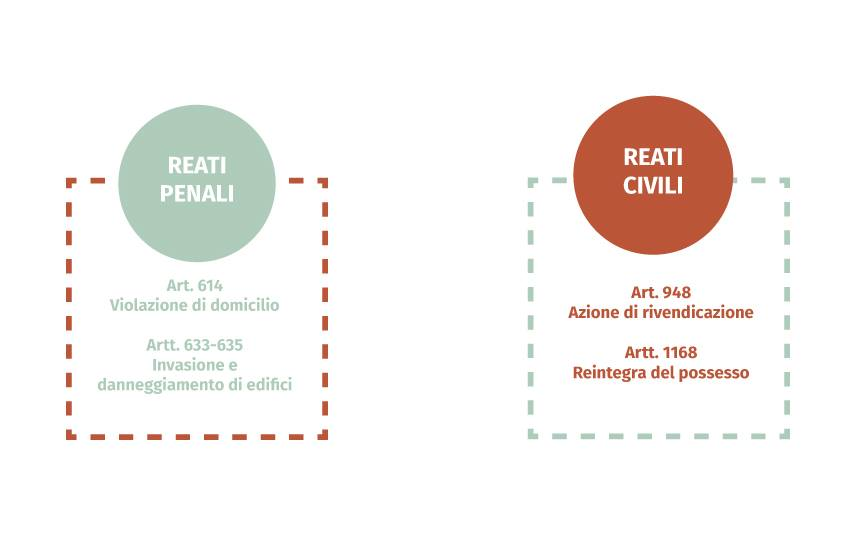
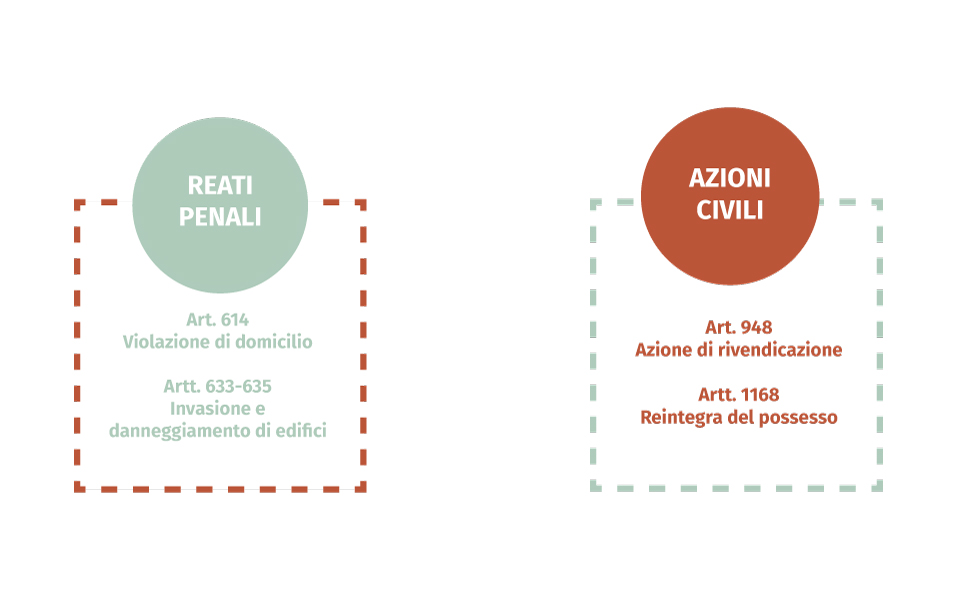
Modifiche avvocato
manca da modificare il video con la faccia del bimbo

diff --git a/alloggi-popolari/scandalo_2004.html b/alloggi-popolari/scandalo_2004.html
@@ -102,16 +102,22 @@
                 <article>
                 	<div class="innerArticle text-justify">
 	                    <h1>Lo scandalo del 2004</h1>
-                        <p><a href="http://www.antonioamorosi.it/biografia-2/" target="_blank">Antonio Amorosi</a>, oggi giornalista e scrittore, nel luglio 2004 ha ricevuto l'incarico di <strong>Assessore alle politiche abitative</strong> per l'Amministrazione Cofferati.</p>
-                        <p>Nel febbraio 2006 decise di dimettersi dall'incarico perché venuto a conoscenza di un <strong>sistema illecito</strong>, in vigore ormai da 20 anni, che permetteva ai consiglieri comunali e ai loro amici di scavalcare le normali richieste di case popolari, presentate dai cittadini realmente in difficoltà. Il tutto era permesso in quanto nascosto dalla scusa dell'<strong>emergenza abitativa</strong>.</p>
+                        <p><a href="http://www.antonioamorosi.it/biografia-2/" target="_blank">Antonio Amorosi</a>, oggi giornalista e scrittore, nel luglio 2004 ha ricevuto l’incarico di <strong>assessore alle politiche abitative</strong> del Comune di Bologna per l’amministrazione Cofferati.</p>
+                        <p>Nel febbraio 2006, Amorosi rassegnò le sue dimissioni dall’incarico, subito dopo aver denunciato un &laquo;<i>sistema illecito nelle assegnazioni delle case popolari del Comune di Bologna, perpetrato nei 20 anni precedenti</i>&raquo;.</p>
+                        <p>Nel corso di un intervento in commissione di indagine sulla Commissione Consulta Casa, riportato parola per parola in una <a href="http://www.antonioamorosi.it/wp-content/uploads/2008/10/Relazione_tecnica-dell_ass._Amorosi_sul-Sistema-politico_di_assegnazione_delle-case-del-Comune-di-Bologna_del_16_2_2005.pdf" target="_blank">relazione del 16 febbraio 2005</a>, Amorosi descrisse nel dettaglio l’intera vicenda a partire dal ricevimento dell’incarico di assessore fino alla scoperta del sistema, che prevedeva, secondo la sua denuncia, una gestione indipendente delle assegnazioni per una cospicua parte di alloggi ERP da parte di politici che, invece, non avrebbero dovuto avere alcun ruolo nella gestione di tali situazioni emergenziali, essendo questo compito affidato a organi di natura strettamente tecnico-amministrativa.</p>
                         <br />
                         <iframe src="https://www.youtube.com/embed/7kxE66zzGI4" frameborder="0" width="100%" height="60%" allowfullscreen="allowfullscreen"></iframe>
                         <br />
                         <br />
-                        <p>Scoperto questo sistema, Amorosi decise di formalizzare alla Procura della Repubblica di Bologna tutti i processi irregolari che lo costituivano, le cui prove sono riportate ancora oggi sul sito dell'organizzazione no-profit <a href="http://www.casadellalegalita.info/emila-e-centro/emilia-romagna/10788-il-dossier-sullinchiesta-sullillegalit-nellassegnazione-delle-case-popolari-a-bologna.html" target="_blank">Casa della Legalità e della Cultura</a>. Nonostante dopo qualche anno la Procura avesse confermato le irregolarità e le illegalità segnalate, il caso venne archiviato.</p>
-                        <p>Tra i verbali a conferma di questo sistema, si trova quello inerente al caso di una pittrice di origini lettoni di nome Lolita, che non aveva nemmeno mai provato ad accedere alle graduatorie ERP ed era priva quindi di tutta la documentazione necessaria per la verifica dei requisiti per entrarvi. La motivazione addotta lascia a bocca aperta: nel verbale della Commissione Casa si legge: «<em>Fornisce un contributo importante ai rapporti tra Italia e Lettonia»</em>.</p>
-                        <p>Ciò che forse più di ogni altra cosa lascia nello sconcerto è la consapevolezza dei cittadini (riportata da Amorosi nella relazione inviata alla Procura) del fatto che, senza l'intervento personale e puntuale di un politico, fosse pressoché impossibile riuscire ad ottenere un alloggio popolare in tempi ragionevoli e definiti.</p>
-                        <p>Sono passati dieci anni e non sappiamo se l'illecito sia stato ripristinato, quel che resta di sicuro è il paradosso dell'<strong>istituzionalizzazione dell'emergenza</strong>. Forse non sono troppi undici anni, perché l'emergenza non sia ancora stata arginata?</p>
+                        <p>Amorosi <a href="http://www.antonioamorosi.it/wp-content/uploads/2008/10/Denuncia1.pdf" target="_blank">formalizzò tali accuse</a> alla Procura della Repubblica il 6 febbraio 2006, tuttavia il caso venne archiviato </i>&raquo;per infondatezza della notizia di reato</i>&raquo;, come si legge nel <a href="http://www.antonioamorosi.it/wp-content/uploads/2008/10/richiesta_archiviazione_set_20071.pdf" target="_blank">verbale di archiviazione</a>, in quanto, secondo l’Autorità giudiziaria, la condotta denunciata non configurava il reato di abuso d’ufficio previsto dall’art. 323 del codice penale.
+                            Tuttavia, lo stesso Giudice per le Indagini Preliminari che ha disposto l’archiviazione del caso non esitava a segnalare l’effettiva sussistenza di <strong>illecito amministrativo</strong>, sebbene non riconducibile ad una fattispecie di rilevanza penale.
+                        </p>
+                        <p>A conferma della illiceità della condotta da parte delle p.a., veniva evidenziato come le decisioni per l’assegnazione degli alloggi ERP &laquo;<i>venivano solo succintamente motivate</i>&raquo;, e che &laquo;<i>talune pratiche venivano portate all’esame della commissione da consiglieri comunali, che ne avevano evidentemente ricevuto dirette segnalazioni in precedenza</i>&raquo;. Segnalazioni che, dopo il mancato rinnovo della commissione da parte di Amorosi, rimasero senza esito. Un’ulteriore procedura piuttosto ambigua era individuata nella <i>&laquo;prassi seguita dalla commissione di provvedere autonomamente alla istruttoria di pratiche finalizzate alla assegnazione di un certo numero di alloggi prescindendo da preventive segnalazioni provenienti dai competenti servizi comunali</i>&raquo;, pur avvalendosi sempre dell’ausilio di funzionari dell’ufficio casa del Comune di Bologna che partecipavano alle varie sedute.</p>
+                        <p>Inoltre, nell’ordinanza di archiviazione si osserva che, effettivamente, &laquo;<i>in taluni casi non è chiaro quali siano stati i criteri adottati, e secondo quali modalità siano state istruite le pratiche</i>&raquo;.</p>
+                        <p>Tuttavia, viene infine dichiarato che per la concreta configurabilità del reato ex art. 323 c.p., &laquo;<i>l’accertamento della violazione di leggi o di regolamento nell’assunzione del provvedimento amministrativo, deve necessariamente concorrere con la “ingiustizia” del vantaggio patrimoniale alla cui attribuzione il provvedimento amministrativo è finalizzato</i>&raquo;.</p>
+                        <p>A prescindere da ogni considerazione in ordine alla configurabilità del reato di abuso di ufficio, è dunque palese l’illegittimità di una condotta che confligge con una buona amministrazione del patrimonio pubblico destinato ai cittadini realmente bisognosi.</p>
+                        <p>Non mancano, infatti, i riscontri a situazioni a dir poco paradossali. Si è registrato fra gli altri il caso di chi, pur non avendo partecipato ad alcun bando ERP e non essendo dunque in possesso di alcuna documentazione per la verifica dei requisiti, ha visto il parere della commissione “favorevole” alla sua assegnazione grazie al fatto che la sua attività artistica <i>&laquo;fornisce un contributo importante ai rapporti tra Italia e Lettonia</i>&raquo;.</p>
+                        <p><a href="http://www.casadellalegalita.info/index.php/altre-regioni/emilia-romagna/case-popolari-a-bologna/11662-il-dossier-sullinchiesta-sullillegalit-nellassegnazione-delle-case-popolari-a-bologna" target="_blank"><strong>IL DOSSIER</strong></a></p>
                     </div>
                 </article>
             </div>

diff --git a/alloggi-popolari/gestione.html b/alloggi-popolari/gestione.html
@@ -118,7 +118,7 @@
                         <p><img class="interna" src="../img/alloggi/gestione1.jpg" alt="via gandusio" width="100%" /></p>
                         <p>La stessa <strong>difficoltà comunicativa</strong> l'abbiamo trovata noi nel tentativo di avviare una collaborazione approfondita che ci permettesse di rappresentare dall'interno la realtà aziendale. Un tentativo estenuante durato più di sei mesi, fatto di scambi di mail, telefonate poco chiare e incontri in presenza dell'avvocato di Acer. Abbiamo riscontrato una serie di mancanze per quel che concerne gli obblighi inerenti la normativa sulla<strong> trasparenza e l'anticorruzione</strong>, alcune già riportate nel gennaio 2014 e sintetizzate in una <a href="../pdf/griglia-valutativa-anac.pdf" target="_blank">griglia di valutazione</a> approfondita, compilata a seguito di una delibera dell'ente nazionale per l'anticorruzione (ANAC). Perciò abbiamo voluto procedere con l'inoltro di due <strong>moduli di accesso civico</strong>, il primo dei quali da noi stesse ritirato su esplicita richiesta da parte di alcuni funzionari a causa di una compilazione non corretta, in previsione di una collaborazione più stretta da loro millantata. Non essendo questa avvenuta per ciò che concerne gli aspetti per noi più interessanti ed essendo riuscite ad ottenere solo un'intervista preparata e programmata con il Presidente Claudio Felicani, in data 9 agosto abbiamo provveduto ad un re-inoltro del modulo, di cui riportiamo la <a href="../pdf/risposta-accesso-civico.pdf" target="_blank">risposta tempestiva, </a>firmata dal Direttore Generale.</p>
                         <p>Secondo quanto previsto dalla legge, e anche riportato nella sezione “Amministrazione trasparente” sul sito di Acer Bologna</p>
-                        <p><em>“Acer Bologna, entro trenta giorni, procede alla pubblicazione nel sito del documento, dell’informazione o del dato richiesto e lo trasmette contestualmente al richiedente, ovvero comunica al medesimo l’avvenuta pubblicazione, indicando il collegamento ipertestuale a quanto richiesto. Se il documento, l’informazione o il dato richiesti risultano già pubblicati nel rispetto della normativa vigente, l’amministrazione indica al richiedente il relativo collegamento ipertestuale”.</em></p>
+                        <p><em>&laquo;Acer Bologna, entro trenta giorni, procede alla pubblicazione nel sito del documento, dell’informazione o del dato richiesto e lo trasmette contestualmente al richiedente, ovvero comunica al medesimo l’avvenuta pubblicazione, indicando il collegamento ipertestuale a quanto richiesto. Se il documento, l’informazione o il dato richiesti risultano già pubblicati nel rispetto della normativa vigente, l’amministrazione indica al richiedente il relativo collegamento ipertestuale&raquo;.</em></p>
                         <p>Peccato che i 30 giorni siano scaduti il 9 settembre e nella risposta ufficiale Acer non fa altro che fornire uno scadenzario in cui prevede di pubblicare i diversi dati mancanti.</p>
                         <p>Speriamo che questo atteggiamento non sia lo specchio di un tentativo di rimandare il più possibile, consci del fatto che avremmo avuto delle scadenze. Preferiamo piuttosto pensare che, invece di occuparsi di noi, siano stati oberati di lavoro e abbiano perseguito quell’interesse pubblico a cui anche noi miriamo.</p>
                     </div>

diff --git a/sfratti/ufficiale-giudiziario.html b/sfratti/ufficiale-giudiziario.html
@@ -106,7 +106,7 @@
                             Nel caso specifico l’ufficiale giudiziario ha non solo il compito di notificare all’esecutato gli atti che anticipano lo sfratto, ma anche di eseguirlo.</p>
                         <p><img class="interna" src="../img/sfratti/ufficiale1.jpg" alt="picchetto" width="100%" /></p>
                         <p>Intervista a <strong>Ivana Capobianco</strong>, ufficiale giudiziario di Bologna.</p>
-                        <p><em>“C’è un aspetto fondamentale nel lavoro degli ufficiali giudiziari che nessuno conosce. Noi svolgiamo un’attività non solo esecutiva ma anche di <strong>mediazione</strong>; contattiamo i servizi sociali segnalando loro l’esistenza di nuclei familiari all’interno dei quali si riscontrano situazioni di grave disagio (presenza di minori, anziani o persone con gravi problemi di salute anche mentale), ovvero nuclei in grave difficoltà economica. Spesso queste famiglie rimangono misconosciute ai servizi sociali per le più svariate ragioni: vergogna, ignoranza, depressione o incapacità di accettare una realtà troppo dolorosa. Cerchiamo di mediare sul territorio svolgendo un lavoro molto importante, soprattutto per quegli sfratti la cui esecuzione viene impedita dalla presenza dei Social Log o altre associazioni o comitati che intervengono al fine bloccare lo sfratto”.</em></p>
+                        <p><em>&laquo;C’è un aspetto fondamentale nel lavoro degli ufficiali giudiziari che nessuno conosce. Noi svolgiamo un’attività non solo esecutiva ma anche di <strong>mediazione</strong>; contattiamo i servizi sociali segnalando loro l’esistenza di nuclei familiari all’interno dei quali si riscontrano situazioni di grave disagio (presenza di minori, anziani o persone con gravi problemi di salute anche mentale), ovvero nuclei in grave difficoltà economica. Spesso queste famiglie rimangono misconosciute ai servizi sociali per le più svariate ragioni: vergogna, ignoranza, depressione o incapacità di accettare una realtà troppo dolorosa. Cerchiamo di mediare sul territorio svolgendo un lavoro molto importante, soprattutto per quegli sfratti la cui esecuzione viene impedita dalla presenza dei Social Log o altre associazioni o comitati che intervengono al fine bloccare lo sfratto&raquo;<i>.</em></p>
                         <br />
                         <h4><strong><em>Come funziona l’attività dell’ufficiale giudiziario?</em></strong></h4>
                         <p>Per prima cosa vi è la notifica dell’<strong>atto di intimazione</strong> e della contestuale <strong>citazione per la convalida di sfratto</strong>, fatta pervenire all’inquilino tramite l’ufficiale giudiziario. Il giorno dell’udienza il giudice può concedere il così detto <strong>termine di grazia</strong>, al fine di garantire al conduttore un più ampio lasso di tempo per sanare la posizione debitoria con il locatore ed evitare così il rilascio dell’immobile abitato.

diff --git a/alloggi-popolari/manutenzione.html b/alloggi-popolari/manutenzione.html
@@ -121,7 +121,7 @@
                           </ul>
                         </p>
                         <p>A predisporre questi interventi sono le <strong>Aziende Casa</strong>, infatti Acer Bologna, ente gestore degli alloggi di edilizia residenziale pubblica, ha anche il compito di erogare i così detti <strong>servizi tecnici e di manutenzione</strong>. Come emerge dalla carta dei servizi Acer: </p>
-	                    <p><em>"Acer fornisce servizi di progettazione, realizzazione e collaudo di interventi per la nuova costruzione, ristrutturazione, recupero ed efficientamento di unità immobiliari in proprietà o conto terzi. Acer garantisce inoltre tutti gli interventi di manutenzione ordinaria e straordinaria per il mantenimento e adeguamento del patrimonio immobiliare gestito". </em></p>
+	                    <p><em>&laquo;Acer fornisce servizi di progettazione, realizzazione e collaudo di interventi per la nuova costruzione, ristrutturazione, recupero ed efficientamento di unità immobiliari in proprietà o conto terzi. Acer garantisce inoltre tutti gli interventi di manutenzione ordinaria e straordinaria per il mantenimento e adeguamento del patrimonio immobiliare gestito.&raquo; </em></p>
                         <p>Le risorse erogate alla città di Bologna per gli interventi di <strong>non rilevante</strong> <strong>entità</strong>,<strong> </strong>e dunque non superiori ai 15.000,00 euro,<strong> per le annualità 2014-2016</strong><strong> </strong>ammontano complessivamente a <strong>462.173,00 </strong>euro, mentre per gli interventi di ripristino e di manutenzione straordinaria sono stati erogati complessivamente<strong> 7.677.003,15 </strong>euro per le annualità <strong>2016-2018</strong>.</p>
                         <p>Nonostante le cifre stanziate, dall'analisi che abbiamo avuto modo di effettuare risultano molteplici gli edifici destinati agli alloggi ERP ancora in fase di ripristino o in manutenzione.
                             Lo scenario, infatti, è tutto tranne che positivo: palazzoni quasi terminati e pronti ad essere consegnati ai numerosi richiedenti in graduatoria, ma ormai abbandonati al degrado e all'inciviltà; cantieri il cui termine è previsto per il 2018 e invece fermi da anni, che lasciano intendere che non verranno completati in tempo, e facciate sgangherate di condomini che cadono a pezzi.</p>

diff --git a/alloggi-popolari/come-si-ottengono.html b/alloggi-popolari/come-si-ottengono.html
@@ -107,7 +107,7 @@
 	                    <h1 class="text-left">Come dovrebbe funzionare</h1>
                         <br />
                         <br />
-                        <p class="text-center"><em>"Ogni amministrazione comunale adotta il proprio regolamento per l'assegnazione e la gestione degli alloggi E.R.P."</em></p>
+                        <p class="text-center"><em>&laquo;Ogni amministrazione comunale adotta il proprio regolamento per l'assegnazione e la gestione degli alloggi E.R.P.&raquo;</em></p>
                         <br />
                         <br />
                         <p>Le procedure per ottenere un alloggio popolare sono descritte dettagliatamente all'interno del <a href="http://www.acerbologna.it/site/home/regolamenti/regolamento-per-lassegnazione-e-la-gestione-degli-alloggi-di-erp/documento6140.html">Regolamento per l’assegnazione e la gestione degli alloggi di edilizia residenziale pubblica</a> presente sul sito di Acer Bologna.</p>
@@ -130,7 +130,7 @@
                         <br />
                         <h3 class="text-left">REQUISITI</h3>
                         <br />
-                        <p style="text-align: center;">“<em>I requisiti di accesso sono stabiliti con disciplina regionale e devono essere in possesso del richiedente e del suo nucleo al momento di presentazione della domanda e alla data di verifica degli stessi</em>”.</p>
+                        <p style="text-align: center;"><em>&laquo;I requisiti di accesso sono stabiliti con disciplina regionale e devono essere in possesso del richiedente e del suo nucleo al momento di presentazione della domanda e alla data di verifica degli stessi.&laquo;</em></p>
                         <p>I richiedenti devono trovarsi in<strong> specifiche condizioni di particolare bisogno sociale</strong>, che riguardano principalmente aspetti come:</p>
                         <ul style="list-style: disc;">
                             <li>Et&agrave;</li>

diff --git a/sfratti/sfratto.html b/sfratti/sfratto.html
@@ -112,7 +112,7 @@
                             Dopo aver preso in affitto un appartamento, nel 2013 ha fatto domanda per ottenere l’assegnazione di un <strong>alloggio popolare</strong>, ma a causa di un problema burocratico non è riuscito ad accedervi, sebbene fosse in possesso di tutti i requisiti.<br />
                             Nel frattempo, lui e Assìa hanno entrambi perso il lavoro e, non essendo più in grado di pagare l’affitto e contemporaneamente sostentare la propria famiglia, hanno ricevuto la notifica di sfratto.</p>
                         <br />
-                        <iframe src="https://www.youtube.com/embed/oQ_wn8Dr8Uc" frameborder="0" width="100%" height="60%" allowfullscreen="allowfullscreen"></iframe>
+                        <iframe src="https://www.youtube.com/embed/oCZFUhgjGZo" frameborder="0" width="100%" height="60%" allowfullscreen="allowfullscreen"></iframe>
                         <br />
                         <br />
                         <p><strong>Morosità incolpevole</strong>: così viene definita questa condizione di debito con la proprietà, tanto consequenziale quanto inevitabile che, se prima della crisi rappresentava il caso, l’eccezione, negli ultimi anni è arrivata a colpire quasi <strong>100 famiglie</strong> ogni giorno.<br />

diff --git a/risposte-istituzionali/alloggi.html b/risposte-istituzionali/alloggi.html
@@ -103,7 +103,7 @@
                 	<div class="innerArticle text-justify">
 	                    <h1>Alloggi di transizione</h1>
                         <br />
-                        <iframe src="https://www.youtube.com/embed/QpHPJqYqjXQ" frameborder="0" width="100%" height="60%" allowfullscreen="allowfullscreen"></iframe>
+                        <iframe src="https://www.youtube.com/embed/mwi_l6jlXQw" frameborder="0" width="100%" height="60%" allowfullscreen="allowfullscreen"></iframe>
                         <br />
                         <br />
                         <p>Il settore degli alloggi di transizione abitativa viene inaugurato nel dicembre 2014 ad opera di <a href="http://www.aspbologna.it" target="_blank">ASP</a> (Azienda Pubblica di Servizi alla Persona) e dell'<a href="http://www.comune.bologna.it/inclusionesociale" target="_blank">Istituzione per l'inclusione sociale e comunitaria Don Paolo Serra Zanetti</a>, per dare risposta alla sempre più diffusa emergenza abitativa.</p>

diff --git a/occupazioni/asia.html b/occupazioni/asia.html
@@ -110,7 +110,7 @@
                         <div class="media">
                             <div class="media-body">
                                 <br />
-                                <p><br /><br /><em>"La forza sia dell'amministrazione, sia dei media, che della questura, è di confinarti nel binomio legale/illegale, quando non è che si parla di legale/illegale, si parla di persone che non hanno la casa e di politiche abitative che mancano."</em></p>
+                                <p><br /><br /><em>&laquo;La forza sia dell'amministrazione, sia dei media, che della questura, è di confinarti nel binomio legale/illegale, quando non è che si parla di legale/illegale, si parla di persone che non hanno la casa e di politiche abitative che mancano.&raquo;</em></p>
                                 <p style="float: right;"><em> [Federico Serra, militante A.S.I.A USB]</em></p>
                             </div>
                             <div class="media-right">

diff --git a/occupazioni/reati.html b/occupazioni/reati.html
@@ -108,7 +108,7 @@
                         <br />
                         <br />
                         <p>Nello specifico si è visto come i reati che entrano in gioco possono essere di tipo civile o penale.</p>
-                        <p>I reati previsti dal<b> codice civile</b> sono di tutela della proprietà privata, e in particolare sono legati a due articoli:</p>
+                        <p>Le azioni a tutela (civilistica) del diritto di propriet&agrave; e possesso, sono regolamentate da due articoli: </p>
                         <br />
                         <ul style="list-style: disc;">
                             <li><b>Art. 948: azione di rivendicazione</b></li>

diff --git a/occupazioni/grandi_occupazioni.html b/occupazioni/grandi_occupazioni.html
@@ -102,7 +102,7 @@
                 <article>
                     <div class="innerArticle text-justify">
 
-                        <p><img class="interna" src="../img/occupazioni/timeline_occupazioni.jpg" alt="gestore 1" width="100%" /></p>
+                        <p><img class="interna" src="../img/occupazioni/timeline_occupazioni.jpg" alt="Grandi Occupazioni" width="100%" /></p>
                     </div>
                 </article>
             </div>
